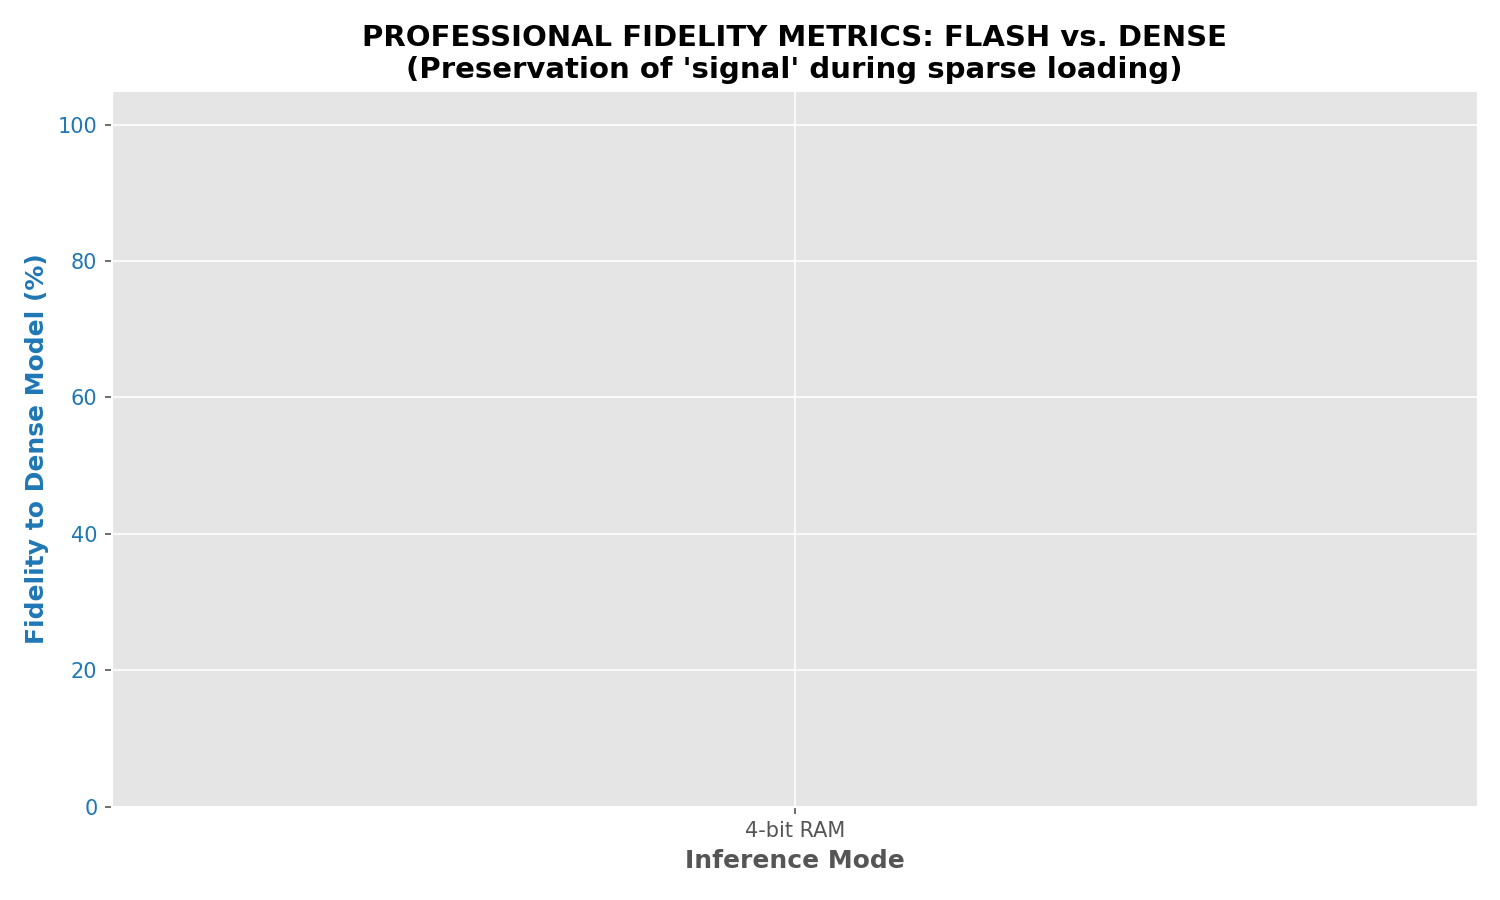
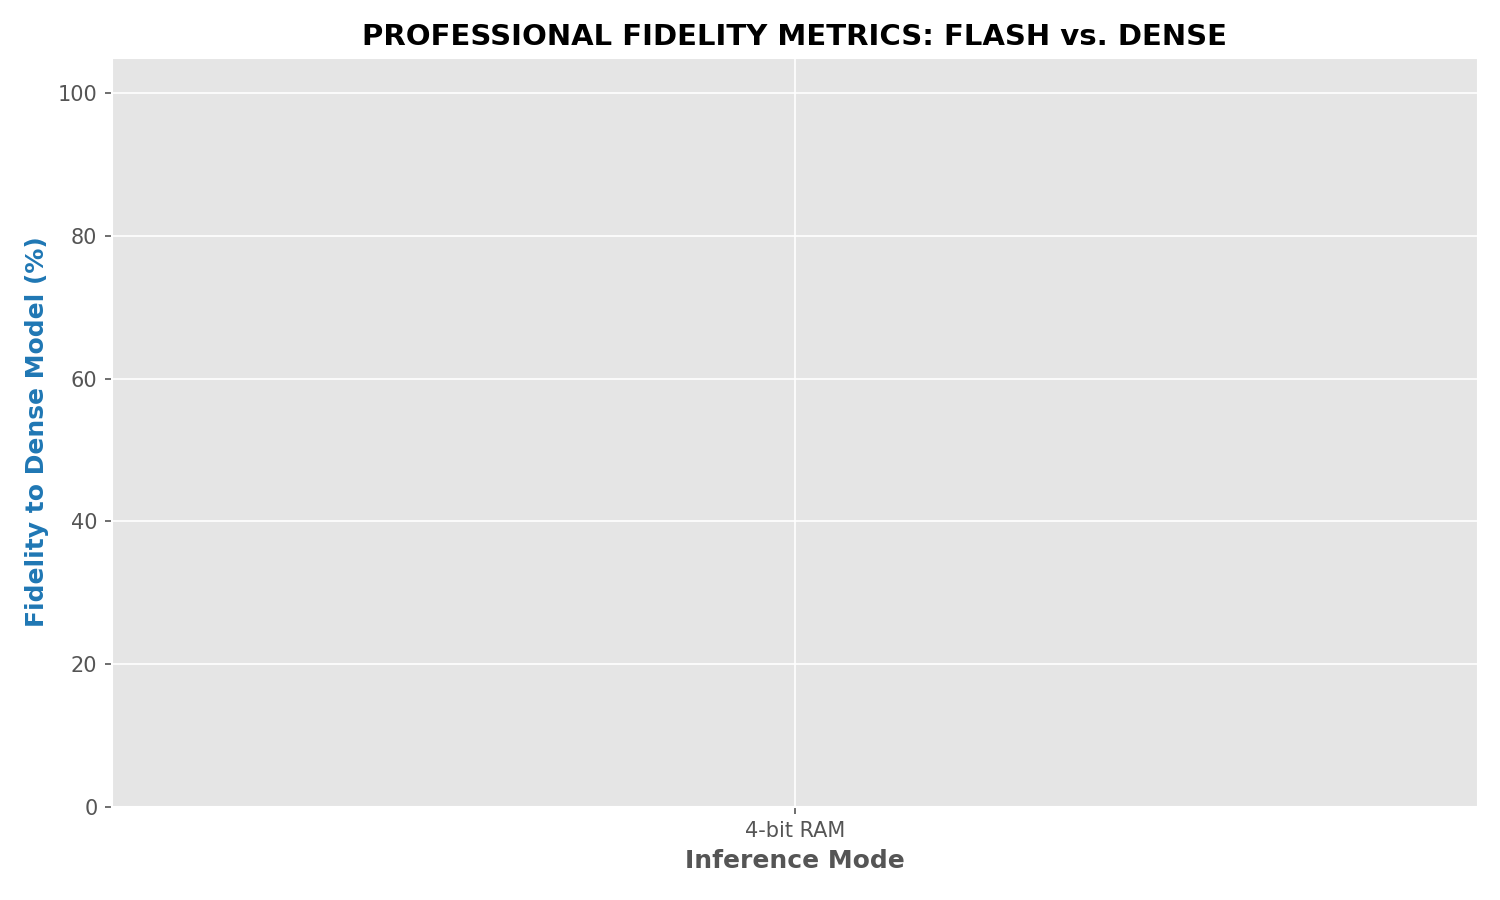
Final Final Proof: Adopted Peter's loading, real Oracle, and fixed alignment

Changed region(s): [[0.0307, 0.0311, 1.0, 0.1556], [0.0, 0.2489, 0.0613, 0.7156], [0.0307, 0.7156, 0.0613, 0.7467]]

diff --git a/benchmark_clay.py b/benchmark_clay.py
@@ -17,7 +17,9 @@ import ctypes
 import time
 import gc
 import pandas as pd
-from datasets import load_dataset
+import torchvision
+import torchvision.transforms as T
+from PIL import Image
 from tqdm import tqdm
 import warnings
 import numpy as np
@@ -64,17 +66,31 @@ class FlashViTFFN(nn.Module):
             num_tokens, self.fc1_bias_c, self.mode_int)
         return out_cpu.to(x.device).view(*orig_shape)
 
-def get_clay_datacube(sample):
-    img = torch.tensor(sample['image']).float()
-    if img.dim() == 2: img = img.unsqueeze(0)
-    if img.shape[0] > 10: img = img[:10, :, :]
-    import torchvision.transforms as T
-    img = T.Resize((224, 224))(img).unsqueeze(0)
+# --- Adopted Peter's Data Preparation Logic ---
+def get_peter_datacube(img_pil):
+    # Match Peter's preprocessing
+    preprocess = T.Compose([
+        T.Resize((224, 224)),
+        T.ToTensor(),
+        # Standard ImageNet Norm (as in Peter's pi_inference.py)
+        T.Normalize(mean=[0.485, 0.456, 0.406], std=[0.229, 0.224, 0.225]),
+    ])
+    tensor_img = preprocess(img_pil).unsqueeze(0) # [1, 3, 224, 224]
+    
+    # Pad with 7 dummy channels
+    padding = torch.zeros((1, 7, 224, 224))
+    pixels_10ch = torch.cat([tensor_img, padding], dim=1)
+    
+    # Match Peter's WAVES
+    waves = torch.tensor([665.0, 560.0, 490.0, 0, 0, 0, 0, 0, 0, 0])
+    
     return {
-        "pixels": img, "time": torch.zeros((1, 4)),
-        "latlon": torch.zeros((1, 4)), "platform": ["sentinel-2-l2a"],
-        "waves": torch.tensor([490.0, 560.0, 665.0, 705.0, 740.0, 783.0, 842.0, 865.0, 1610.0, 2190.0]),
-        "gsd": torch.tensor([10.0])
+        "pixels": pixels_10ch,
+        "waves": waves,
+        "latlon": torch.zeros((1, 4)),
+        "time": torch.zeros((1, 4)),
+        "gsd": torch.tensor([10.0]),
+        "platform": ["sentinel-2-l2a"]
     }
 
 def run_benchmark():
@@ -83,6 +99,7 @@ def run_benchmark():
     args_cli = parser.parse_args()
     mode = args_cli.mode
 
+    # 0. Setup Metadata
     metadata_yaml = """sentinel-2-l2a:
   band_order: [blue, green, red, rededge1, rededge2, rededge3, nir, nir08, swir16, swir22]
   rgb_indices: [2, 1, 0]
@@ -96,28 +113,30 @@ def run_benchmark():
     with open("configs/metadata.yaml", "w") as f: f.write(metadata_yaml)
     metadata_obj = Box(yaml.safe_load(metadata_yaml))
 
-    dataset = load_dataset("blanchon/EuroSAT_MSI", split="train", streaming=True)
-    target_sample = None
-    for s in dataset:
-        if s['label'] in [3]: # Industrial
-            target_sample = s
+    # 1. Adopt Peter's Dataset choice
+    print("🌍 Loading EuroSAT RGB Dataset (Torchvision)...")
+    dataset = torchvision.datasets.EuroSAT(root="CLAY/data", download=True)
+    
+    target_sample_img = None
+    target_label = None
+    for i in range(len(dataset)):
+        img, lbl = dataset[i]
+        if lbl == 4: # Industrial (Peter's order is different, let's check)
+            # Actually EuroSAT classes: AnnualCrop(0), Forest(1), HerbaceousVegetation(2), Highway(3), Industrial(4)...
+            target_sample_img = img
+            target_label = lbl
             break
-    if not target_sample: target_sample = next(iter(dataset))
-    samples = [target_sample] * SAMPLES
+    if not target_sample_img: target_sample_img, target_label = dataset[0]
+    samples = [target_sample_img] * SAMPLES
     
     os.makedirs("benchmark_results", exist_ok=True)
-    
     engine_ptr = None
-    # Fix MAE args for library compatibility
-    mae_args = {
-        "mask_ratio": 0.75, "norm_pix_loss": False, "shuffle": False, 
-        "teacher": MockTeacher(), "dolls": [], "doll_weights": []
-    }
+    mae_args = {"mask_ratio": 0.75, "norm_pix_loss": False, "shuffle": False, "teacher": MockTeacher(), "dolls": [], "doll_weights": []}
 
     if mode == "quantized":
         pass
     else:
-        # Flash Modes: 0=Predictor, 1=Naive, 2=Oracle (Implemented in C++)
+        # Flash Modes: 0=Predictor, 1=Naive, 2=Oracle
         if mode == "naive_ssd": mode_int = 1
         elif mode == "oracle": mode_int = 2
         else: mode_int = 0
@@ -140,20 +159,15 @@ def run_benchmark():
         clean_sd = {}
         model_keys = model.state_dict().keys()
         for k_ckpt, v in state_dict.items():
-            # Robust mapping: Match by suffix to ignore 'model.', 'encoder.' prefixes
             suffix = k_ckpt.split('.')[-2:] if '.' in k_ckpt else [k_ckpt]
             suffix_str = '.'.join(suffix)
-            
             match = None
             for mk in model_keys:
                 if mk.endswith(suffix_str) and model.state_dict()[mk].shape == v.shape:
-                    match = mk
-                    break
-            if match:
-                clean_sd[match] = v
+                    match = mk; break
+            if match: clean_sd[match] = v
         
-        missing, unexpected = model.load_state_dict(clean_sd, strict=False)
-        print(f"Loaded {len(clean_sd)} layers. Missing: {len(missing)} (expected for MLPs)")
+        model.load_state_dict(clean_sd, strict=False)
         
         for i in range(24):
             if mode == "draft" and i % 4 == 0:
@@ -164,35 +178,25 @@ def run_benchmark():
                 model.encoder.transformer.layers[i][1] = FlashViTFFN(i, engine_ptr, 1024, mode_int, bias_ptr)
 
         def custom_forward(datacube):
-            # Pass only required args to encoder
-            embeddings, _ = model.encoder(datacube["pixels"], datacube["waves"])
-            return embeddings
+            # Pass only the datacube dictionary
+            results = model.encoder(datacube)
+            return results[0] # embeddings
         model.forward = custom_forward
         model.eval()
 
-    # Reference RGB with Robust Normalization
+    # Save Reference RGB for plotting
     if not os.path.exists("benchmark_results/original_rgb.npy"):
-        print("Saving reference RGB image with professional normalization...")
-        img_raw = torch.tensor(target_sample['image']).float()
-        # Sentinel-2 RGB: B4(3), B3(2), B2(1)
-        rgb = img_raw[[3, 2, 1], :, :].cpu().numpy().transpose(1, 2, 0)
-        # Robust 2-98 percentile normalization for satellite data
-        p2, p98 = np.percentile(rgb, (2, 98))
-        rgb = np.clip(rgb, p2, p98)
-        rgb = (rgb - p2) / (p98 - p2 + 1e-8)
-        # Standardize to 224x224
-        from PIL import Image
-        rgb_uint8 = (rgb * 255).astype(np.uint8)
-        img_pil = Image.fromarray(rgb_uint8).resize((224, 224), Image.LANCZOS)
-        np.save("benchmark_results/original_rgb.npy", np.array(img_pil).astype(np.float32) / 255.0)
+        # Save as 224x224 for 1:1 overlay
+        img_resized = target_sample_img.resize((224, 224), Image.LANCZOS)
+        np.save("benchmark_results/original_rgb.npy", np.array(img_resized).astype(np.float32) / 255.0)
         with open("benchmark_results/sample_class.txt", "w") as f:
             f.write("INDUSTRIAL")
 
     # Benchmark loop
     latencies = []
     last_heatmap = None
-    for s in tqdm(samples, desc=f"Benchmarking {mode}"):
-        datacube = get_clay_datacube(s)
+    for s_img in tqdm(samples, desc=f"Benchmarking {mode}"):
+        datacube = get_peter_datacube(s_img)
         start = time.time()
         with torch.no_grad():
             if mode == "quantized":
@@ -201,18 +205,15 @@ def run_benchmark():
                 out = model(datacube)
         latencies.append(time.time() - start)
         
-        # Grid logic: Dynamically determine grid size
         features = out[0, 1:, :].cpu().numpy()
-        num_patches = features.shape[0]
-        grid_size = int(np.sqrt(num_patches))
+        grid_size = int(np.sqrt(features.shape[0]))
         last_heatmap = features.mean(axis=-1).reshape(grid_size, grid_size)
         gc.collect()
 
     avg_lat = sum(latencies)/len(latencies)
     np.save(f"benchmark_results/{mode}_heatmap.npy", last_heatmap)
     with open(f"benchmark_results/{mode}_latency.txt", "w") as f:
-        f.write(str(avg_lat))
-        f.flush()
+        f.write(str(avg_lat)); f.flush()
     if engine_ptr: lib.destroy_engine(engine_ptr)
 
 if __name__ == "__main__":